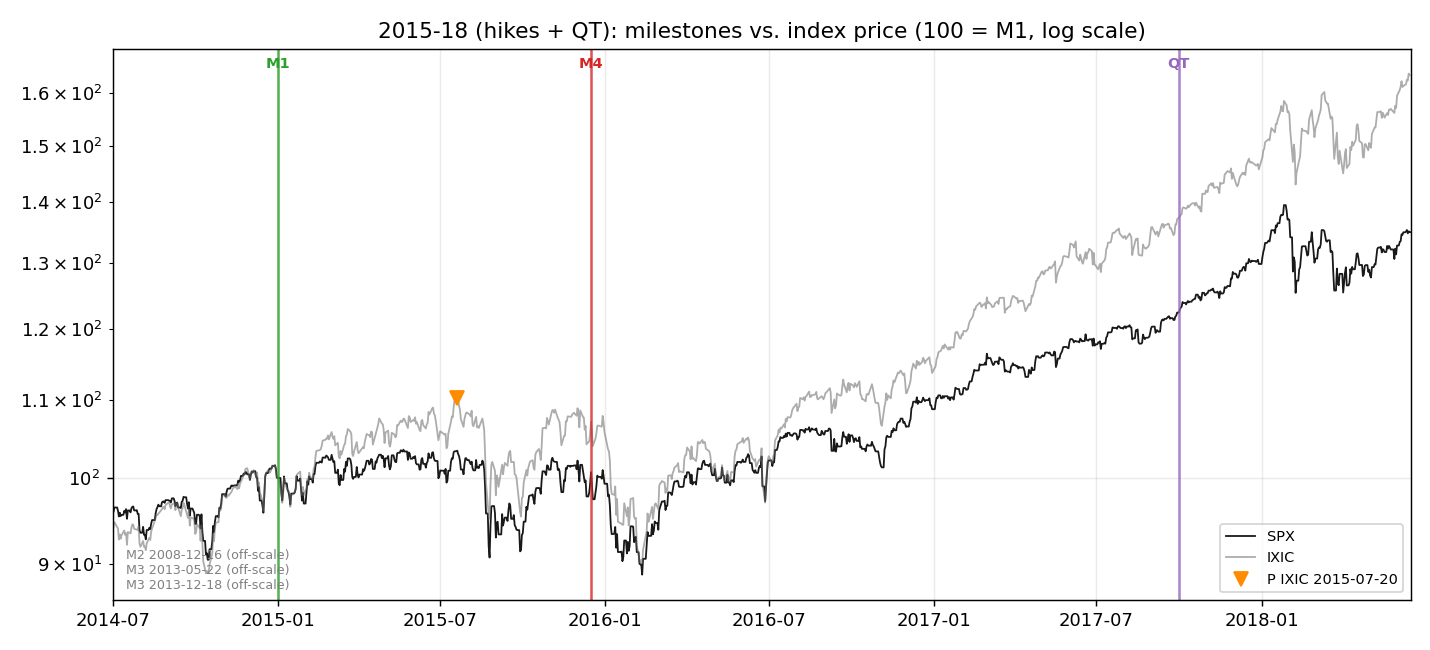
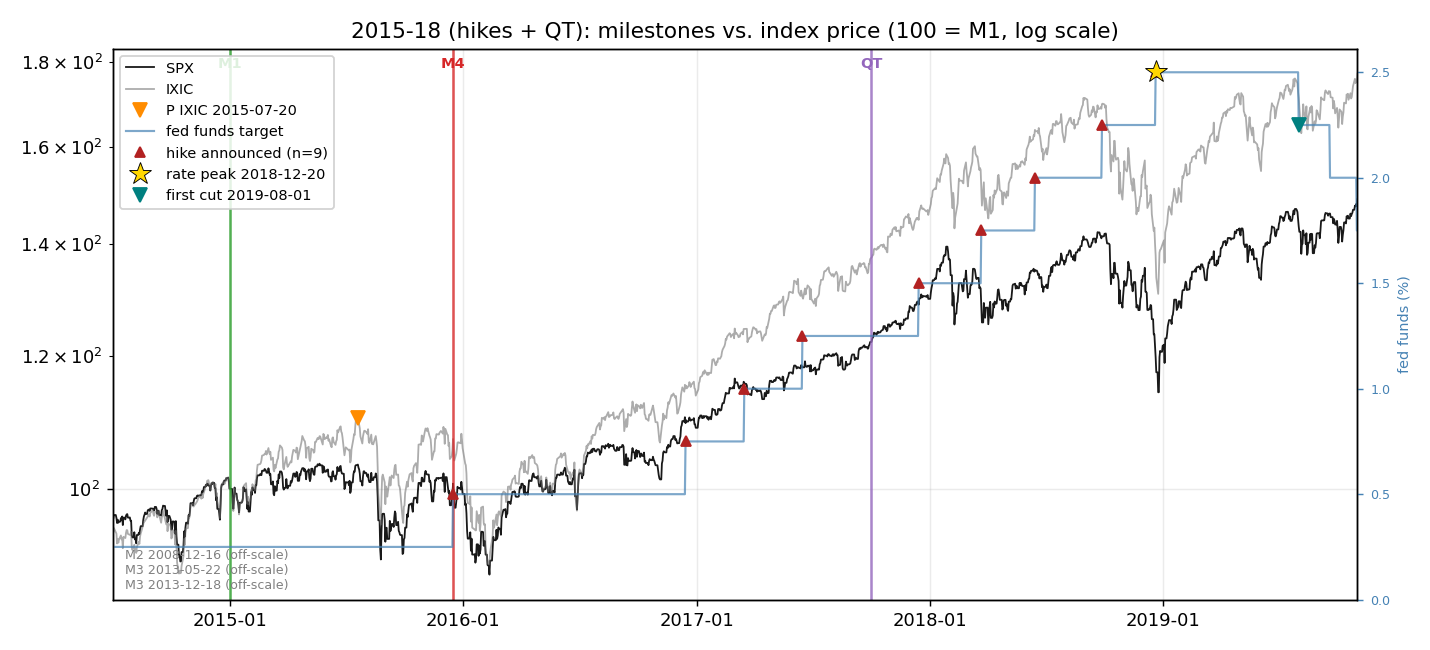
tightening-cycle-timing: mark hike announcements, terminal rate and first cut on timelines
Adds the fed funds target series (DFEDTAR 1982-2008 spliced with
DFEDTARU) with integrity checks; each timeline now shows the policy-rate
path on a right axis with every hike, the rate peak and the first
subsequent cut. Pre-1982 cycles use the monthly average funds rate and
are labeled accordingly (no announced target in that era).

https://claude.ai/code/session_01W7Je3swyyda6vH6jeSkcXW

diff --git a/tightening-cycle-timing/src/analysis.py b/tightening-cycle-timing/src/analysis.py
@@ -230,6 +230,41 @@ def robustness(series, det15) -> pd.DataFrame:
 # Timeline figures
 # ---------------------------------------------------------------------------
 
+def fed_rate_events(series, m4: pd.Timestamp, window_end: pd.Timestamp):
+    """Hike announcements, terminal-rate date and first subsequent cut.
+
+    From 1982-09-27 the daily fed funds target (DFEDTAR/DFEDTARU) dates
+    every FOMC move exactly; before that there was no announced target,
+    so hikes are not marked and the peak/first-cut are read from the
+    monthly average funds rate (FEDFUNDS).
+    """
+    target = series["FFTARGET"]
+    if m4 >= target.index.min():
+        seg = target[(target.index >= m4 - pd.Timedelta(days=7))
+                     & (target.index <= window_end)]
+        ch = seg.diff()
+        hikes = list(ch[ch > 0].index)
+        peak_date = seg.idxmax()
+        full_ch = target.diff()
+        cuts = full_ch[(full_ch < 0) & (full_ch.index > peak_date)]
+        first_cut = cuts.index[0] if len(cuts) else None
+        rate_line = target
+        mode = "target"
+    else:
+        ff = series["FEDFUNDS"]
+        seg = ff[(ff.index >= m4) & (ff.index <= window_end)]
+        hikes = []
+        peak_date = seg.idxmax()
+        peak_val = seg.max()
+        after = ff[ff.index > peak_date]
+        below = after[after < peak_val - 0.25]
+        first_cut = below.index[0] if len(below) else None
+        rate_line = ff
+        mode = "monthly avg (no announced target pre-1982)"
+    return {"hikes": hikes, "peak_date": peak_date, "first_cut": first_cut,
+            "rate_line": rate_line, "mode": mode}
+
+
 MILESTONE_STYLE = {
     "M1": ("tab:green", "M1 inflation inflection"),
     "M2": ("tab:blue", "M2 rate-expectation trough"),
@@ -239,7 +274,8 @@ MILESTONE_STYLE = {
 }
 
 
-def _plot_cycle(ax, series, master, cycle_key, annotate=True):
+def _plot_cycle(ax, series, master, cycle_key, annotate=True,
+                legend_fontsize=8):
     rows = master[(master["cycle"] == cycle_key)
                   & (master["m3_variant"].isin(["", "a"]))]
     r0 = rows.iloc[0]
@@ -248,6 +284,11 @@ def _plot_cycle(ax, series, master, cycle_key, annotate=True):
     start = anchor - pd.DateOffset(months=6)
     p_dates = [d for d in rows["P"] if not pd.isna(d)]
     end = max([c.m4 + pd.DateOffset(months=30)] + [d + pd.DateOffset(months=18) for d in p_dates])
+    rate_ev = fed_rate_events(series, c.m4, c.m4 + pd.DateOffset(months=60))
+    if rate_ev["first_cut"] is not None:
+        end = max(end, rate_ev["first_cut"] + pd.DateOffset(months=3))
+    else:
+        end = max(end, rate_ev["peak_date"] + pd.DateOffset(months=6))
 
     for idx, color in [("SPX", "black"), ("IXIC", "dimgray")]:
         s = series[idx]
@@ -287,9 +328,40 @@ def _plot_cycle(ax, series, master, cycle_key, annotate=True):
         ax.plot([r["P"]], [100 * r["P_close"] / ref], marker="v", ms=8,
                 color="crimson" if r["index"] == "SPX" else "darkorange",
                 ls="none", label=f"P {r['index']} {r['P'].date()}")
+    # right axis: policy-rate path with hikes / terminal rate / first cut
+    ax2 = ax.twinx()
+    rl = rate_ev["rate_line"]
+    rseg = rl[(rl.index >= start) & (rl.index <= end)]
+    ax2.plot(rseg.index, rseg.values, color="steelblue", lw=1.2, alpha=0.7,
+             label=f"fed funds {'target' if rate_ev['mode'] == 'target' else 'rate'}")
+    hikes = [h for h in rate_ev["hikes"] if start <= h <= end]
+    if hikes:
+        ax2.plot(hikes, [rl.asof(h) for h in hikes], ls="none", marker="^",
+                 ms=5, color="firebrick", label=f"hike announced (n={len(hikes)})")
+    pk = rate_ev["peak_date"]
+    if start <= pk <= end:
+        ax2.plot([pk], [rl.asof(pk)], ls="none", marker="*", ms=13,
+                 color="gold", markeredgecolor="black", mew=0.5,
+                 label=f"rate peak {pk.date()}")
+    fc = rate_ev["first_cut"]
+    if fc is not None and start <= fc <= end:
+        ax2.plot([fc], [rl.asof(fc)], ls="none", marker="v", ms=8,
+                 color="teal", label=f"first cut {fc.date()}")
+    ax2.set_ylabel("fed funds (%)", fontsize=8, color="steelblue")
+    ax2.tick_params(axis="y", labelsize=7, colors="steelblue")
+    ax2.set_ylim(bottom=0)
+    if rate_ev["mode"] != "target":
+        ax2.annotate("pre-1982: monthly avg rate,\nno announced target",
+                     (0.99, 0.02), xycoords="axes fraction", fontsize=7,
+                     color="steelblue", ha="right")
+
     ax.set_xlim(start, end)
     ax.xaxis.set_major_formatter(mdates.DateFormatter("%Y-%m"))
     ax.grid(alpha=0.25)
+    h1, l1 = ax.get_legend_handles_labels()
+    h2, l2 = ax2.get_legend_handles_labels()
+    ax.legend(h1 + h2, l1 + l2, fontsize=legend_fontsize, loc="upper left",
+              framealpha=0.85)
 
 
 def make_figures(series, master):
@@ -297,16 +369,15 @@ def make_figures(series, master):
         fig, ax = plt.subplots(figsize=(11, 5))
         _plot_cycle(ax, series, master, c.key)
         ax.set_title(f"{c.label}: milestones vs. index price (100 = M1, log scale)")
-        ax.legend(fontsize=8, loc="lower right")
         fig.tight_layout()
         fig.savefig(OUT / f"timeline_{c.key}.png", dpi=130)
         plt.close(fig)
 
     fig, axes = plt.subplots(4, 2, figsize=(14, 16))
     for ax, c in zip(axes.flat, CYCLES):
-        _plot_cycle(ax, series, master, c.key, annotate=True)
+        _plot_cycle(ax, series, master, c.key, annotate=True,
+                    legend_fontsize=6)
         ax.set_title(c.label, fontsize=10)
-        ax.legend(fontsize=6, loc="lower right")
     for ax in axes.flat[len(CYCLES):]:
         ax.axis("off")
     fig.suptitle("Tightening cycles: M1/M2/M3/M4/QT vs equity peak "

diff --git a/tightening-cycle-timing/src/data.py b/tightening-cycle-timing/src/data.py
@@ -47,6 +47,10 @@ MIRRORS = {
     "SP500": f"{_RAW}/leocanada2007/us70/dc66bc6a1bfd3c1ffbe5fc105dd864fceaeeb1f2/data/SP500.csv",
     "IXIC": f"{_RAW}/leocanada2007/us70/dc66bc6a1bfd3c1ffbe5fc105dd864fceaeeb1f2/data/IXIC.csv",
     "US70_DAILY": f"{_RAW}/leocanada2007/us70/dc66bc6a1bfd3c1ffbe5fc105dd864fceaeeb1f2/data/daily.csv",
+    # FRED daily fed funds target: single target 1982-09-27 .. 2008-12-15,
+    # upper bound of the target range 2008-12-16 .. 2026-02
+    "DFEDTAR": f"{_RAW}/vengveng/FEII/d646ed078efe87a902d89260ad2a6eea974bbe81/data/raw/DFEDTAR.csv",
+    "DFEDTARU": f"{_RAW}/calderon777/monetary-economics/5d51200e2500079f8c660cd1ed2ee21f8ed1feb7/data_cache/dfedtaru.csv",
 }
 
 FRED_SERIES = ["CPIAUCSL", "CPILFESL", "FEDFUNDS", "DGS2", "DGS1", "WALCL"]
@@ -149,6 +153,24 @@ def load_dff() -> pd.Series:
     return _cached("DFF", [("FRED direct", direct), ("GitHub mirror", mirror)])
 
 
+def load_target() -> pd.Series:
+    """Fed funds target rate, daily: DFEDTAR (1982-09-27..2008-12-15)
+    spliced with the target-range upper bound DFEDTARU (2008-12-16..).
+    Discrete changes in this series date the FOMC hike/cut decisions."""
+
+    def direct():
+        old = _fetch_fred_direct("DFEDTAR")
+        new = _fetch_fred_direct("DFEDTARU")
+        return pd.concat([old, new]).sort_index()
+
+    def mirror():
+        old = _parse_two_col(_get(MIRRORS["DFEDTAR"]), "DFEDTAR")
+        new = _parse_two_col(_get(MIRRORS["DFEDTARU"]), "DFEDTARU")
+        return pd.concat([old[old.index < new.index.min()], new]).sort_index()
+
+    return _cached("FFTARGET", [("FRED direct", direct), ("GitHub mirror", mirror)])
+
+
 # ---------------------------------------------------------------------------
 # Integrity spot checks: known published values, tolerance 1 %.
 # ---------------------------------------------------------------------------
@@ -158,6 +180,8 @@ SPOT_CHECKS = {
     "CPIAUCSL": [("1980-03-01", 80.1), ("2022-06-01", 296.3)],
     "FEDFUNDS": [("1981-06-01", 19.10), ("2023-01-01", 4.33)],
     "DGS2": [("2021-12-31", 0.73)],
+    # 1994-11-15 hike to 5.50; 2023-07-27 hike to 5.50 upper bound
+    "FFTARGET": [("1994-11-16", 5.50), ("2023-07-28", 5.50)],
 }
 
 
@@ -184,6 +208,7 @@ def load_all() -> dict[str, pd.Series]:
     series["SPX"] = load_spx()
     series["IXIC"] = load_ixic()
     series["DFF"] = load_dff()
+    series["FFTARGET"] = load_target()
     problems = verify_series(series)
     if problems:
         for p in problems:

diff --git a/tightening-cycle-timing/README.md b/tightening-cycle-timing/README.md
@@ -29,6 +29,13 @@ python run_all.py            # FORCE_REFRESH=1 to bypass the parquet cache
 | `run_all.py` | End-to-end driver |
 | `output/` | `SUMMARY.md` (read this), CSV tables, timeline PNGs |
 
+Each timeline figure also shows the fed funds path on the right axis
+(daily target DFEDTAR/DFEDTARU from 1982-09, monthly average FEDFUNDS
+before that, when no target was announced), with red triangles at each
+hike, a star at the terminal/peak rate and a teal triangle at the first
+subsequent cut. Marker dates are the *effective* dates of target
+changes, which can lag the FOMC announcement by a day.
+
 ## Headline results (details + caveats in `output/SUMMARY.md`)
 
 - Equity peaks historically came *after* the first hike — often years
